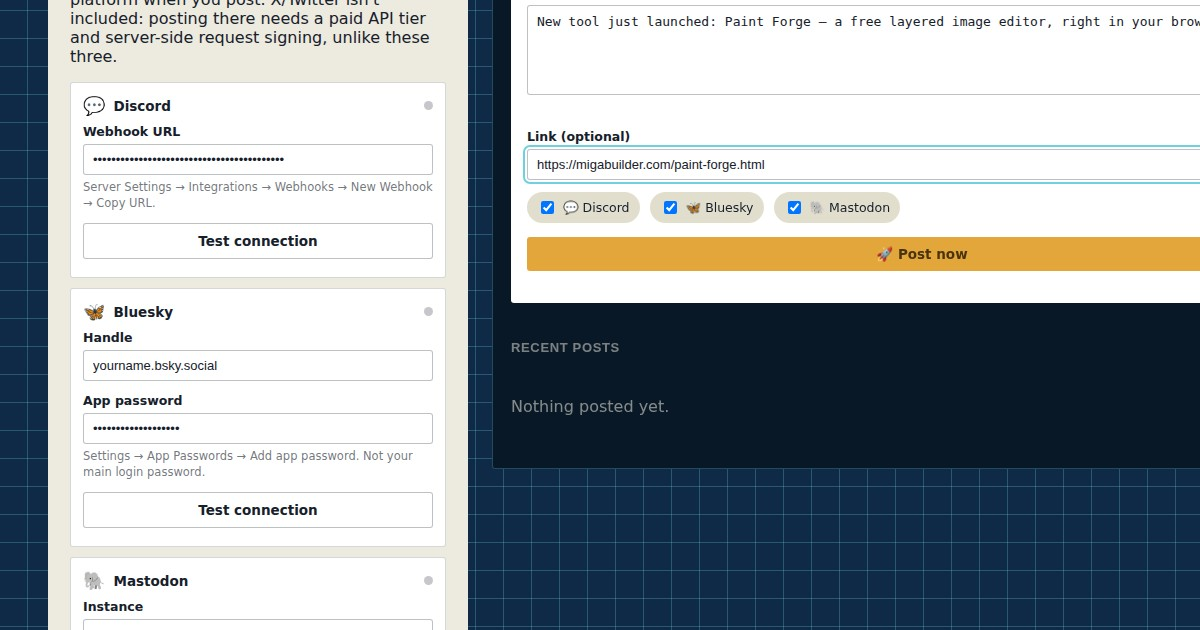
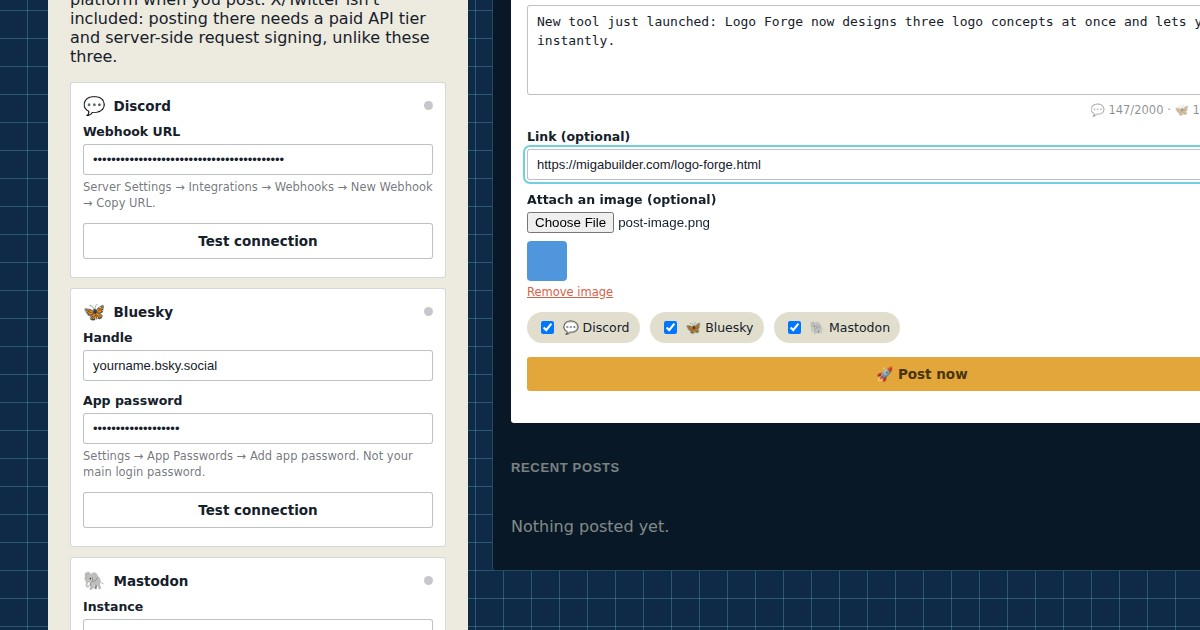
Add per-platform character limits and image attachment to Post Forge
Post Forge had a single hardcoded 280-character warning (Twitter's limit)
even though Discord (~2000), Bluesky (300), and Mastodon (default 500) all
have different real limits — it either warned when it shouldn't or failed to
warn when it should, depending on target. It was also text-only despite all
three platforms supporting image attachments without a backend.

- Character count now shows a per-platform breakdown (💬 X/2000 · 🦋 X/300 ·
  🐘 X/500) that only lists currently-selected targets once at least one is
  checked, coloring any platform the message would exceed. Posting now
  checks each selected platform's own limit and skips just that platform
  with a clear "exceeds its N limit" result row, instead of blocking or
  silently failing the whole post.
- Added an optional image attachment, sent as a real native attachment on
  each platform: Discord via multipart payload_json + files[0], Bluesky via
  com.atproto.repo.uploadBlob then embedded as app.bsky.embed.images,
  Mastodon via /api/v2/media then media_ids on the status. Verified CORS
  support on the two new upload endpoints (Bluesky uploadBlob, Mastodon
  /api/v2/media) before building against them — both allow authorization
  cross-origin.

Tested with Playwright against all three platforms mocked: verified the
per-platform char-count line and its warn coloring, verified a message over
Bluesky's limit but under Discord/Mastodon's gets skipped for Bluesky only
[…]

diff --git a/post-forge.html b/post-forge.html
@@ -211,6 +211,14 @@
         <label for="postLink">Link (optional)</label>
         <input type="text" id="postLink" placeholder="https://migabuilder.com/paint-forge.html">
       </div>
+      <div class="field">
+        <label for="postImage">Attach an image (optional)</label>
+        <input type="file" id="postImage" accept="image/*">
+        <div id="imagePreviewWrap" style="display:none;margin-top:8px;">
+          <img id="imagePreview" style="max-width:160px;max-height:110px;border-radius:4px;display:block;">
+          <button type="button" id="removeImageBtn" style="margin-top:4px;background:none;border:none;color:var(--error);text-decoration:underline;cursor:pointer;padding:0;font-size:11.5px;">Remove image</button>
+        </div>
+      </div>
       <div class="target-list" id="targetList"></div>
       <div class="error-box" id="errorBox"></div>
       <button type="button" class="draft-btn" id="postBtn" style="margin-top:14px;">🚀 Post now</button>
@@ -240,6 +248,10 @@
   const saveBtn = document.getElementById('saveBtn');
   const postText = document.getElementById('postText');
   const postLink = document.getElementById('postLink');
+  const postImage = document.getElementById('postImage');
+  const imagePreviewWrap = document.getElementById('imagePreviewWrap');
+  const imagePreview = document.getElementById('imagePreview');
+  const removeImageBtn = document.getElementById('removeImageBtn');
   const charCount = document.getElementById('charCount');
   const targetList = document.getElementById('targetList');
   const postBtn = document.getElementById('postBtn');
@@ -299,12 +311,20 @@
     });
     if (!res.ok && res.status !== 204) throw new Error('Webhook responded with status ' + res.status);
   }
-  async function postDiscord(message) {
+  async function postDiscord(message, imageFile) {
     const url = discordWebhook.value.trim();
-    const res = await fetch(url, {
-      method: 'POST', headers: { 'Content-Type': 'application/json' },
-      body: JSON.stringify({ content: message })
-    });
+    let res;
+    if (imageFile) {
+      const form = new FormData();
+      form.append('payload_json', JSON.stringify({ content: message }));
+      form.append('files[0]', imageFile, imageFile.name || 'image.png');
+      res = await fetch(url, { method: 'POST', body: form });
+    } else {
+      res = await fetch(url, {
+        method: 'POST', headers: { 'Content-Type': 'application/json' },
+        body: JSON.stringify({ content: message })
+      });
+    }
     if (!res.ok && res.status !== 204) {
       const body = await res.text().catch(() => '');
       throw new Error('Discord responded with status ' + res.status + (body ? ': ' + body.slice(0, 150) : ''));
@@ -324,15 +344,29 @@
     return data;
   }
   async function testBluesky() { await blueskySession(); }
-  async function postBluesky(message) {
+
+  async function uploadBlueskyBlob(session, imageFile) {
+    const res = await fetch('https://bsky.social/xrpc/com.atproto.repo.uploadBlob', {
+      method: 'POST',
+      headers: { 'Content-Type': imageFile.type || 'application/octet-stream', 'Authorization': 'Bearer ' + session.accessJwt },
+      body: imageFile
+    });
+    const data = await res.json().catch(() => null);
+    if (!res.ok) throw new Error((data && data.message) || 'Bluesky image upload failed.');
+    return data.blob;
+  }
+
+  async function postBluesky(message, imageFile) {
     const session = await blueskySession();
+    const record = { text: message, createdAt: new Date().toISOString(), $type: 'app.bsky.feed.post' };
+    if (imageFile) {
+      const blob = await uploadBlueskyBlob(session, imageFile);
+      record.embed = { $type: 'app.bsky.embed.images', images: [{ image: blob, alt: '' }] };
+    }
     const res = await fetch('https://bsky.social/xrpc/com.atproto.repo.createRecord', {
       method: 'POST',
       headers: { 'Content-Type': 'application/json', 'Authorization': 'Bearer ' + session.accessJwt },
-      body: JSON.stringify({
-        repo: session.did, collection: 'app.bsky.feed.post',
-        record: { text: message, createdAt: new Date().toISOString(), $type: 'app.bsky.feed.post' }
-      })
+      body: JSON.stringify({ repo: session.did, collection: 'app.bsky.feed.post', record: record })
     });
     const data = await res.json().catch(() => null);
     if (!res.ok) throw new Error((data && data.message) || 'Bluesky post failed.');
@@ -352,22 +386,52 @@
     const data = await res.json().catch(() => null);
     if (!res.ok) throw new Error((data && data.error) || 'Could not verify Mastodon credentials.');
   }
-  async function postMastodon(message) {
+  async function uploadMastodonMedia(token, imageFile) {
+    const form = new FormData();
+    form.append('file', imageFile, imageFile.name || 'image.png');
+    const res = await fetch(mastodonBase() + '/api/v2/media', {
+      method: 'POST',
+      headers: { 'Authorization': 'Bearer ' + token },
+      body: form
+    });
+    const data = await res.json().catch(() => null);
+    if (!res.ok) throw new Error((data && data.error) || 'Mastodon image upload failed.');
+    return data.id;
+  }
+
+  async function postMastodon(message, imageFile) {
     const token = mastodonToken.value.trim();
+    const body = { status: message };
+    if (imageFile) body.media_ids = [await uploadMastodonMedia(token, imageFile)];
     const res = await fetch(mastodonBase() + '/api/v1/statuses', {
       method: 'POST',
       headers: { 'Content-Type': 'application/json', 'Authorization': 'Bearer ' + token },
-      body: JSON.stringify({ status: message })
+      body: JSON.stringify(body)
     });
     const data = await res.json().catch(() => null);
     if (!res.ok) throw new Error((data && data.error) || 'Mastodon post failed.');
   }
 
   const PLATFORMS = {
-    discord: { label: '💬 Discord', test: testDiscord, post: postDiscord, configured: () => !!discordWebhook.value.trim() },
-    bluesky: { label: '🦋 Bluesky', test: testBluesky, post: postBluesky, configured: () => !!(blueskyHandle.value.trim() && blueskyPassword.value.trim()) },
-    mastodon: { label: '🐘 Mastodon', test: testMastodon, post: postMastodon, configured: () => !!(mastodonInstance.value.trim() && mastodonToken.value.trim()) }
+    discord: { label: '💬 Discord', limit: 2000, test: testDiscord, post: postDiscord, configured: () => !!discordWebhook.value.trim() },
+    bluesky: { label: '🦋 Bluesky', limit: 300, test: testBluesky, post: postBluesky, configured: () => !!(blueskyHandle.value.trim() && blueskyPassword.value.trim()) },
+    mastodon: { label: '🐘 Mastodon', limit: 500, test: testMastodon, post: postMastodon, configured: () => !!(mastodonInstance.value.trim() && mastodonToken.value.trim()) }
   };
+
+  // ---------- image attachment ----------
+  let attachedImage = null;
+  postImage.addEventListener('change', function (e) {
+    const file = (e.target.files || [])[0];
+    if (!file) return;
+    attachedImage = file;
+    imagePreview.src = URL.createObjectURL(file);
+    imagePreviewWrap.style.display = 'block';
+  });
+  removeImageBtn.addEventListener('click', function () {
+    attachedImage = null;
+    postImage.value = '';
+    imagePreviewWrap.style.display = 'none';
+  });
 
   document.querySelectorAll('[data-test]').forEach(btn => {
     btn.addEventListener('click', async function () {
@@ -399,10 +463,19 @@
   }
   postText.addEventListener('input', updateCharCount);
   postLink.addEventListener('input', updateCharCount);
+  function selectedTargets() {
+    return Array.from(targetList.querySelectorAll('input[type="checkbox"]:checked')).map(cb => cb.dataset.target);
+  }
   function updateCharCount() {
     const len = fullMessage().length;
-    charCount.textContent = len + ' characters';
-    charCount.classList.toggle('warn', len > 280);
+    const selected = selectedTargets();
+    const relevant = selected.length ? selected : Object.keys(PLATFORMS);
+    const parts = relevant.map(key => {
+      const over = len > PLATFORMS[key].limit;
+      return (over ? '<span style="color:var(--error);">' : '<span>') + PLATFORMS[key].label.split(' ')[0] + ' ' + len + '/' + PLATFORMS[key].limit + '</span>';
+    });
+    charCount.innerHTML = parts.join('  ·  ');
+    charCount.classList.toggle('warn', relevant.some(key => len > PLATFORMS[key].limit));
   }
   updateCharCount();
 
@@ -418,6 +491,8 @@
         PLATFORMS[key].label + (configured ? '' : ' (not connected)');
       targetList.appendChild(chip);
     });
+    targetList.querySelectorAll('input[type="checkbox"]').forEach(cb => cb.addEventListener('change', updateCharCount));
+    updateCharCount();
   }
   renderTargetList();
 
@@ -444,7 +519,7 @@
     resultsList.innerHTML = '';
     const message = fullMessage();
     if (!postText.value.trim()) { showError('Write something to post first.'); return; }
-    const selected = Array.from(targetList.querySelectorAll('input[type="checkbox"]:checked')).map(cb => cb.dataset.target);
+    const selected = selectedTargets();
     if (!selected.length) { showError('Connect and check at least one platform first.'); return; }
 
     postBtn.disabled = true;
@@ -453,11 +528,16 @@
     for (const key of selected) {
       const row = document.createElement('div');
       row.className = 'result-row';
+      if (message.length > PLATFORMS[key].limit) {
+        row.innerHTML = '<span class="ic">⚠</span><span>' + PLATFORMS[key].label + ' — skipped, ' + message.length + ' characters exceeds its ' + PLATFORMS[key].limit + ' limit</span>';
+        resultsList.appendChild(row);
+        continue;
+      }
       row.innerHTML = '<span class="ic">⏳</span><span>' + PLATFORMS[key].label + '…</span>';
       resultsList.appendChild(row);
       try {
-        await PLATFORMS[key].post(message);
-        row.innerHTML = '<span class="ic">✅</span><span>' + PLATFORMS[key].label + ' — posted</span>';
+        await PLATFORMS[key].post(message, attachedImage);
+        row.innerHTML = '<span class="ic">✅</span><span>' + PLATFORMS[key].label + ' — posted' + (attachedImage ? ' with image' : '') + '</span>';
         succeeded.push(key);
       } catch (err) {
         row.innerHTML = '<span class="ic">❌</span><span>' + PLATFORMS[key].label + ' — ' + err.message + '</span>';
